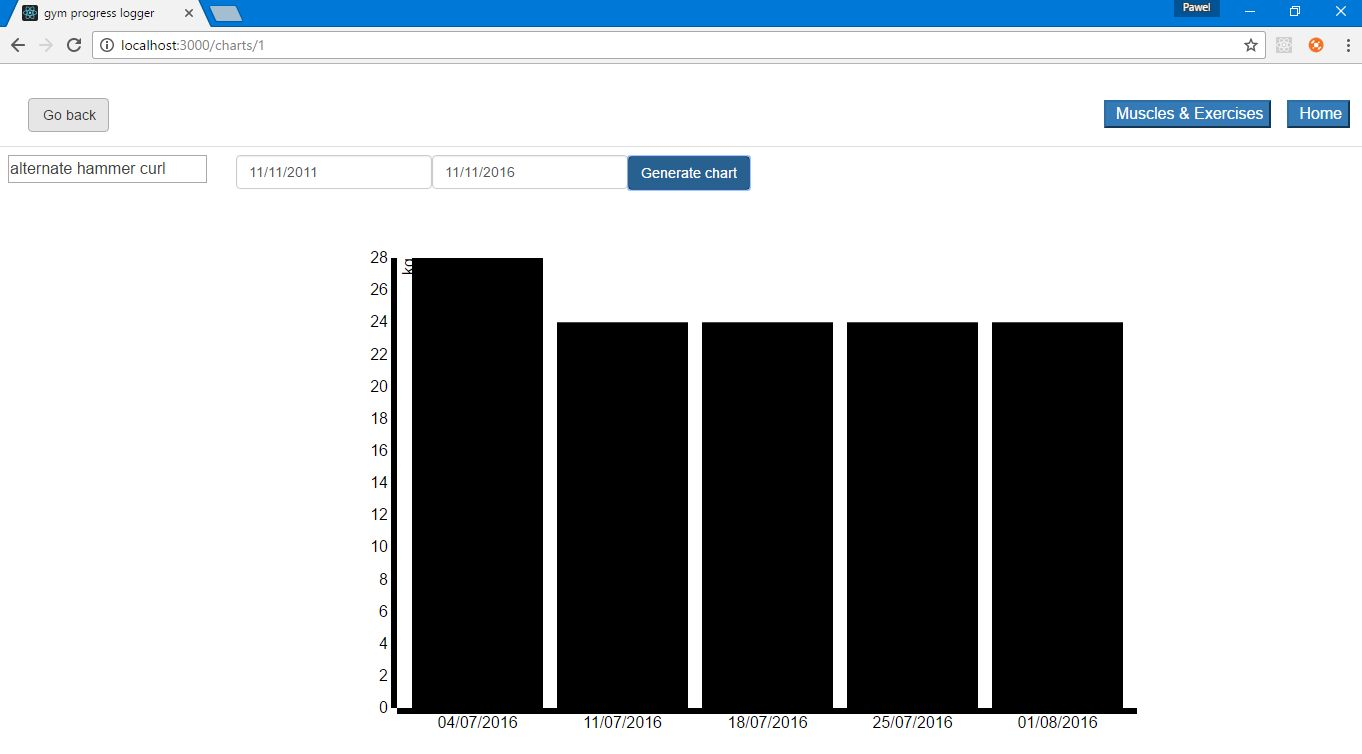
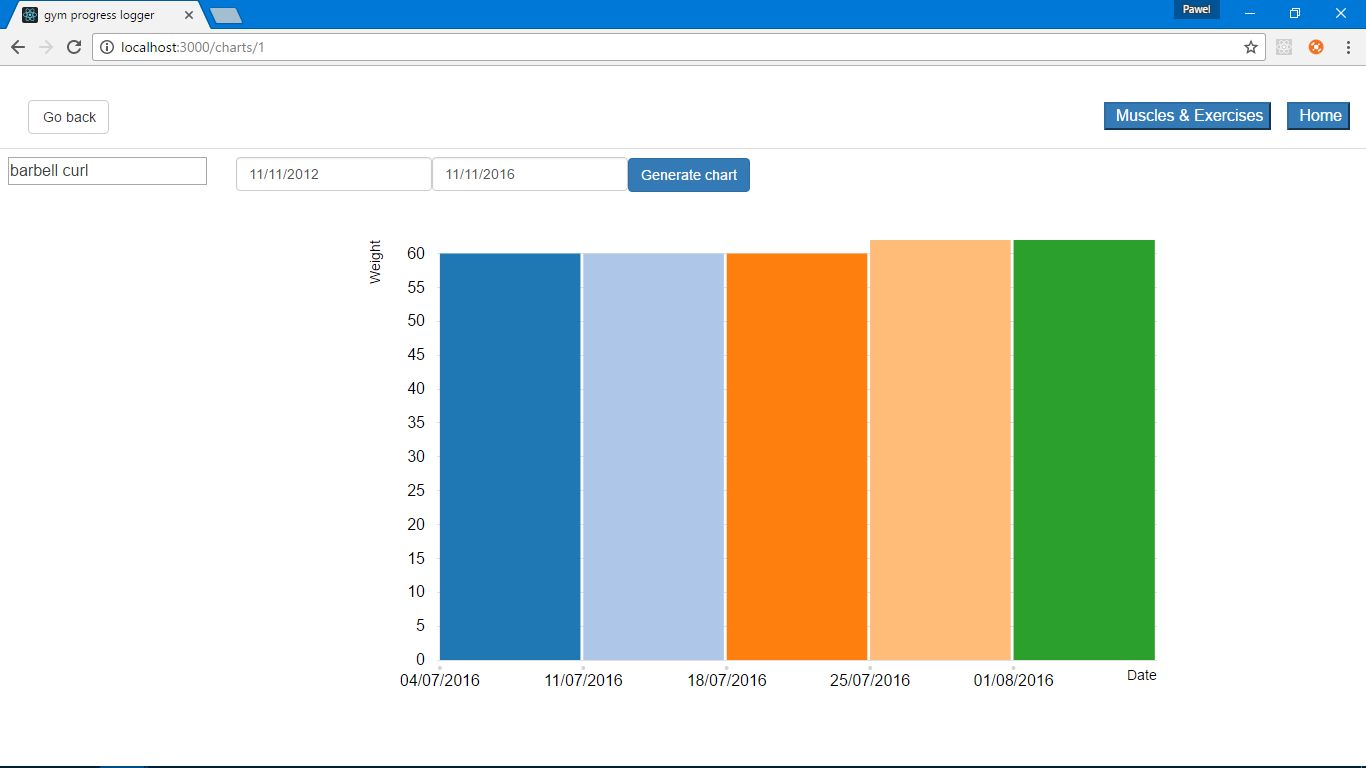
chart changed to easy chart making it more visually attractive

diff --git a/src/views/Main/Home/ExerciseNamePick.js b/src/views/Main/Home/ExerciseNamePick.js
@@ -4,7 +4,7 @@ import { Link } from 'react-router';
 import $ from "jquery";
 import _ from 'lodash';
 import Autosuggest from 'react-autosuggest';
-import BarChart from 'react-bar-chart';
+import {BarChart} from 'react-easy-chart';
 import {Button} from 'react-bootstrap';
 import { browserHistory } from 'react-router';
 import Header from './Header';
@@ -248,7 +248,7 @@ export default class ExerciseNamePick extends React.Component {
         validTrainingDaysIndices.push(i);
       } 
     };
-    console.log(validTrainingDaysIndices);
+    //console.log(validTrainingDaysIndices);
     var trainingDaysToDisplay = [];
     if (validTrainingDaysIndices.length == 0) {
       data = [];
@@ -267,7 +267,7 @@ export default class ExerciseNamePick extends React.Component {
           if(this.state.muscleGroupSessions[j].name == muscleGroup) {
             if(this.state.muscleGroupSessions[j].main_session_id == trainingDaysToDisplay[i].training_session_id) {
               if(this.state.exerciseUnits[k].name == exercise && this.state.exerciseUnits[k].muscle_group_session_id == this.state.muscleGroupSessions[j].id) {
-                data.push({'text': trainingDaysToDisplay[i].date, 'value': this.state.exerciseUnits[k].weight});
+                data.push({'x': trainingDaysToDisplay[i].date, 'y': this.state.exerciseUnits[k].weight});
               } 
             }
           }
@@ -276,6 +276,19 @@ export default class ExerciseNamePick extends React.Component {
     };
     //console.log("data");
     //console.log(data);
+    //console.log(data.length);
+    if(data.length >8) {
+      for (i = 0; i < data.length; i++) {
+        var newText = data[i].x.substring(0,5);
+        data[i].x = newText;
+      }
+    }
+    if(data.length > 18) {
+      for (i = 0; i < data.length; i++) {
+        data[i].text = "";
+      }
+    }
+    console.log(data);
     this.setState ({data});
   };
   
@@ -371,7 +384,17 @@ var Chart = React.createClass({
   render() {
     return (
       <div className="col-md-6 col-md-offset-3">
-        <BarChart ylabel='kg' width={800} height={450} margin={margin} data={this.props.data}/>
+        <BarChart 
+          axes 
+          grid 
+          axisLabels={{x: 'Date', y: 'Weight'}} 
+          colorBars 
+          width={800} 
+          height={450} 
+          margin={margin} 
+          data={this.props.data} 
+          margin={{top: 0, right: 0, bottom: 30, left: 80}}
+          />
 			</div>
     );
   }

diff --git a/src/views/Main/Home/ExerciseList.js b/src/views/Main/Home/ExerciseList.js
@@ -214,7 +214,7 @@ var AddExerciseForm = React.createClass({
           </tr>
 				  <tr>
             <td className="col-md-2">
-              <div class="btn-group">
+              <div className="btn-group">
                 <input type="button" className="btn btn-primary" value="Undo" onClick={this.handleUndo} />
                 <input type="button" className="btn btn-success" value="Confirm" onClick={this.handleSubmit} />
               </div>
